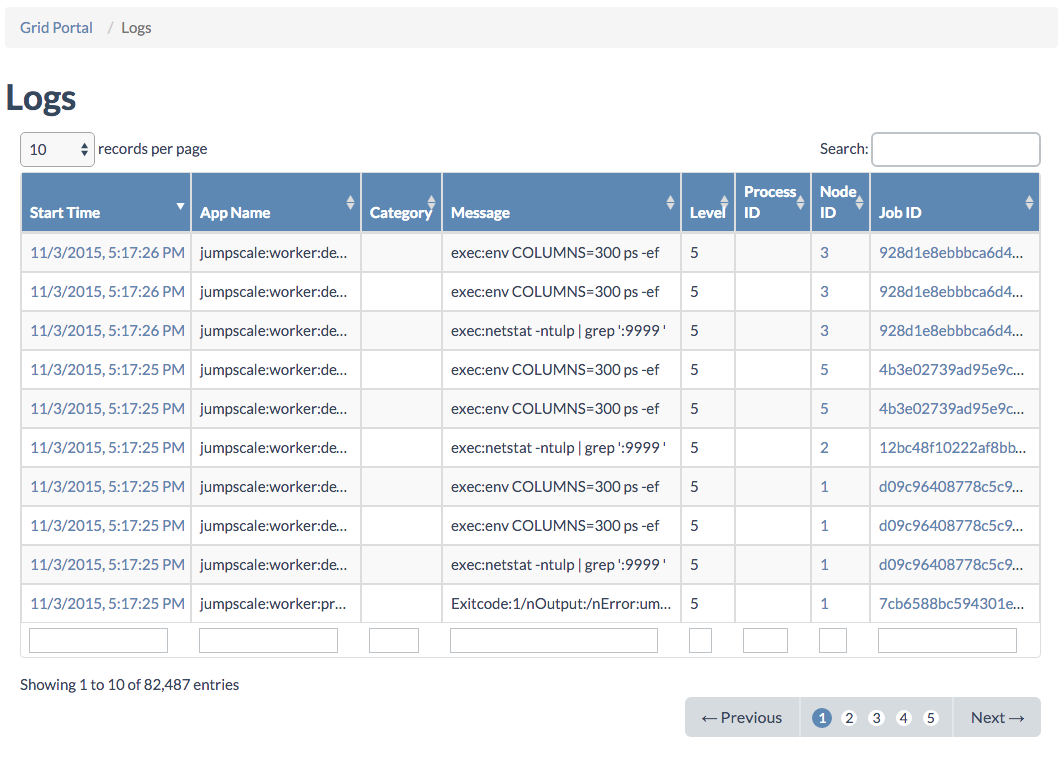
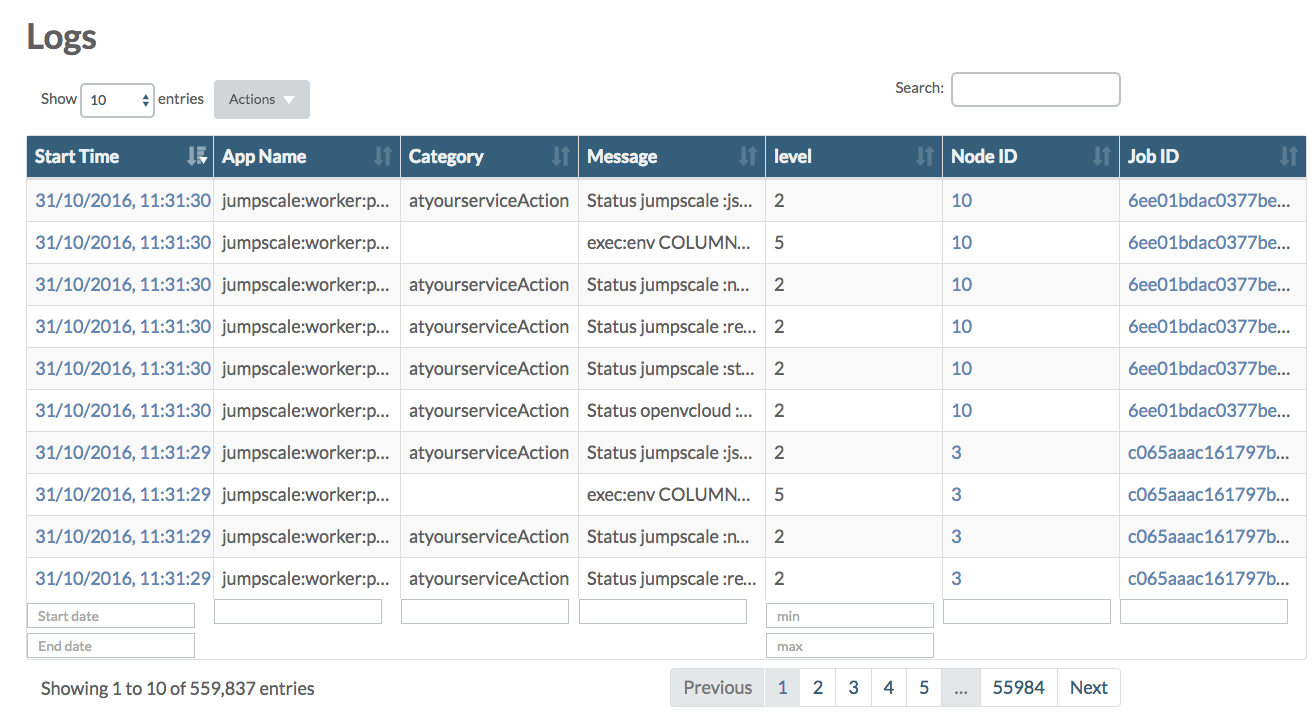
Update Logs documentation

diff --git a/docs/GridPortal/Logs/Logs.md b/docs/GridPortal/Logs/Logs.md
@@ -1,8 +1,12 @@
 ## Logs
 
-All **OpenvCloud** components are extensively instrumented, writing useful information to logs, which are searchable:
+All **OpenvCloud** components are instrumented, writing useful information to logs:
 
-![[]](Logs.png)
+![](Logs.png)
+
+All columns have filters, and for **Start Time** and **Level** you can specify a range:
+
+![](Filter.png)
 
 Clicking the **Start Time** timestamp brings you to the **Log Details** page:
 
